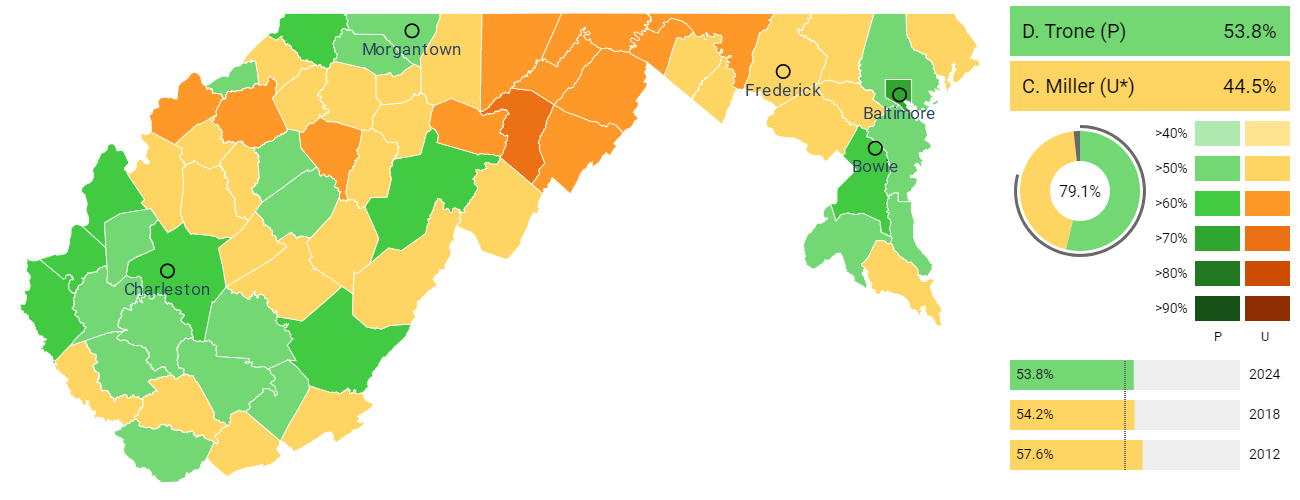
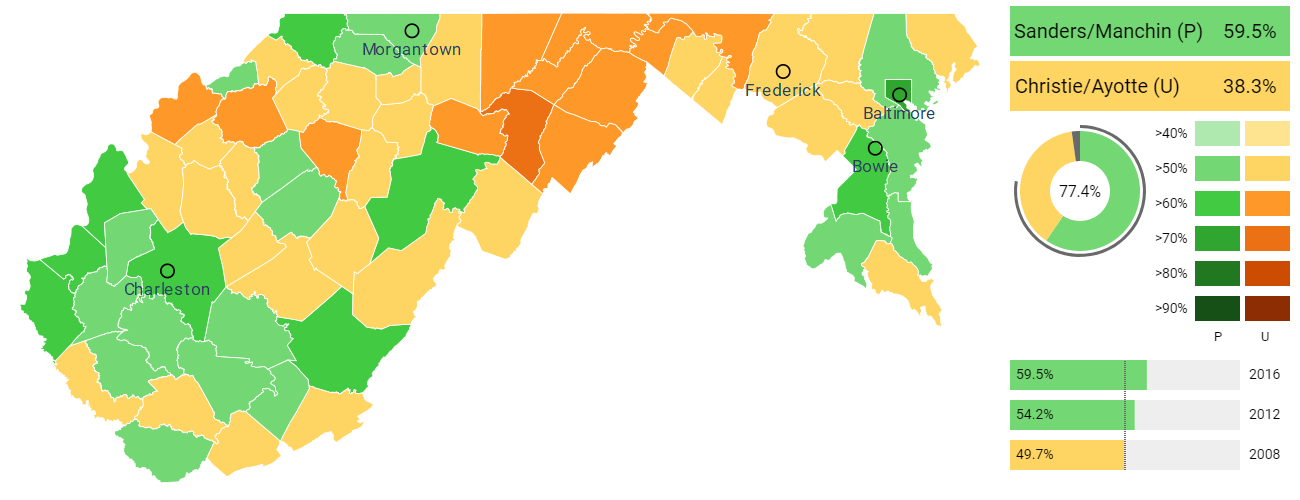
Changed the map to a presidential one, changed up the candidates and the results

diff --git a/main.py b/main.py
@@ -222,7 +222,7 @@ def draw_legend(candidates: list[str],
                              y_margin=5,
                              colors=[palettes[1][1], palettes[0][1]],
                              candidate_text=candidates,
-                             candidate_text_positions=[[74, 469], [78, 414]],
+                             candidate_text_positions=[[108, 469], [97, 414]],
                              candidate_text_size=20,
                              result_text=[f"{i}%" for i in results],
                              result_text_positions=[[250, 414], [250, 469]],
@@ -250,11 +250,11 @@ def main() -> None:
                              "350 245 300 30", 1000, 500)
     svg_to_png("map.svg", "map.png")
     print("Map complete")
-    draw_legend(["D. Trone (P)", "C. Miller (U*)"],
-                [53.8, 44.5], [54.2, 57.6], 79.1,
+    draw_legend(["Sanders/Manchin (P)", "Christie/Ayotte (U)"],
+                [59.5, 38.3], [54.2, 49.7], 77.4,
                 [COLORS_D_PRES, COLORS_R_PRES],
-                ["P", "U"], [COLORS_R_PRES[1], COLORS_R_PRES[1],
-                COLORS_D_PRES[1]], ["2024", "2018", "2012"],
+                ["P", "U"], [COLORS_R_PRES[1], COLORS_D_PRES[1],
+                COLORS_D_PRES[1]], ["2016", "2012", "2008"],
                 "legend.png")
     print("Legend complete")
     combine_images("map.png", "legend.png",
